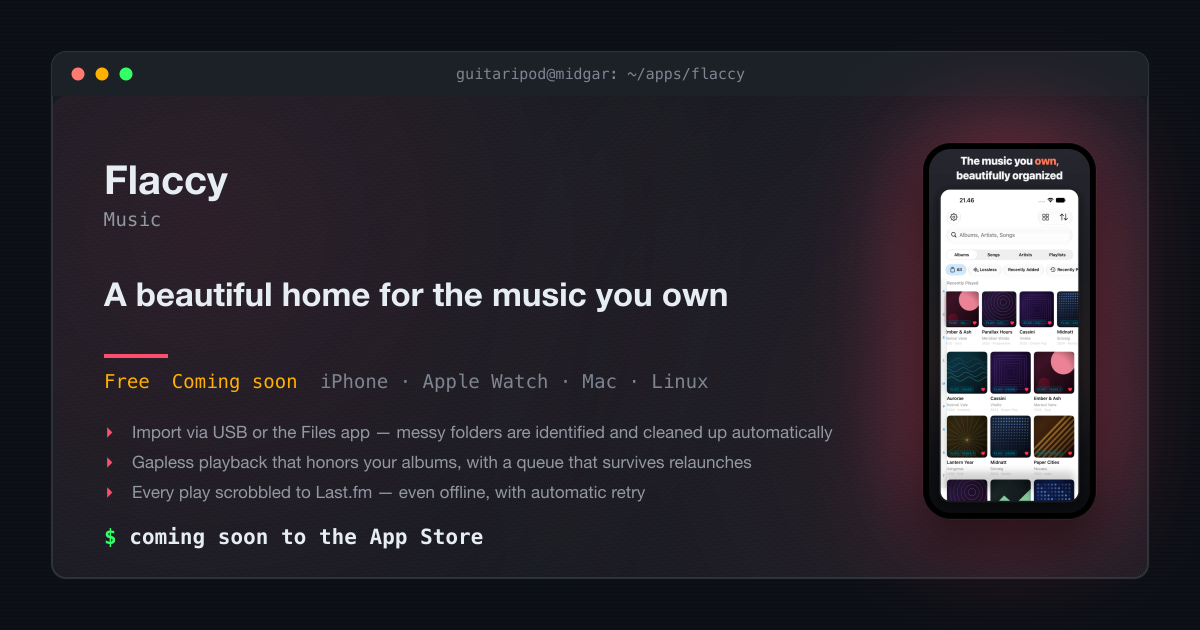
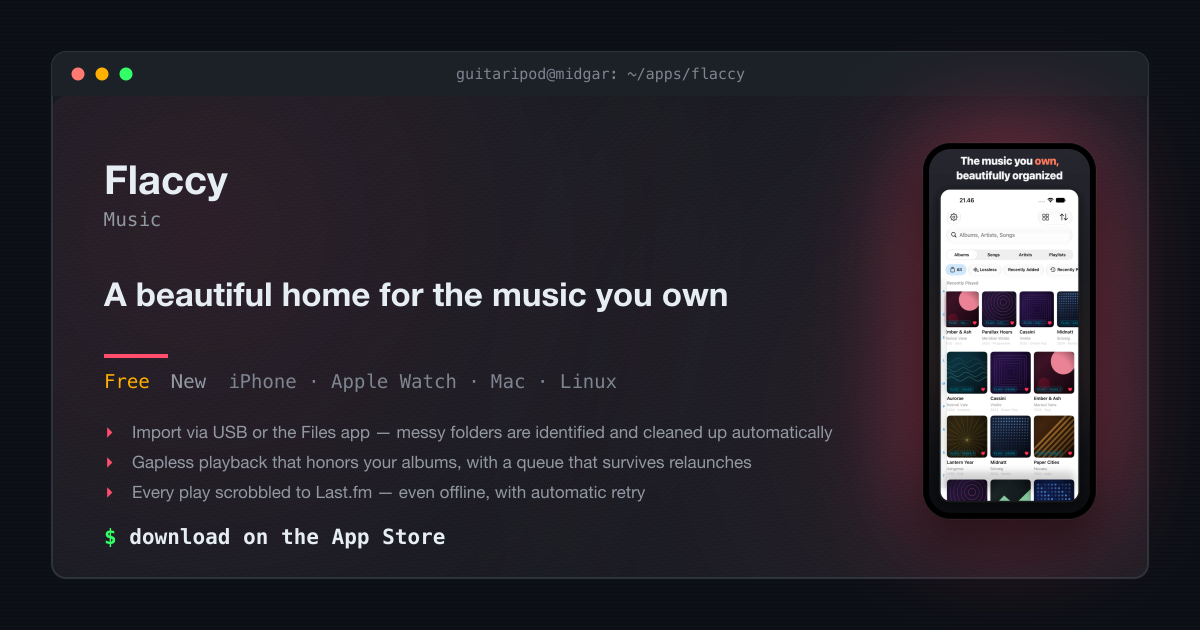
Flaccy: mark iOS app live and add homepage card feature bullets

diff --git a/internal/appstore/fetch.go b/internal/appstore/fetch.go
@@ -183,6 +183,17 @@ var appEnhancements = map[int]struct {
 			"Browse as a guest, sign in for Following",
 		},
 	},
+	6787493695: {
+		ID:           "flaccy",
+		Tagline:      "The Player for the Music You Own",
+		PrimaryColor: "#FF4D6D",
+		Features: []string{
+			"Gapless FLAC playback with quality badges",
+			"AI-organized library, no manual tagging",
+			"Last.fm scrobbling, charts & Year in Music",
+		},
+		Platforms: []string{"iPhone", "Apple Watch"},
+	},
 }
 
 func FetchData() error {
